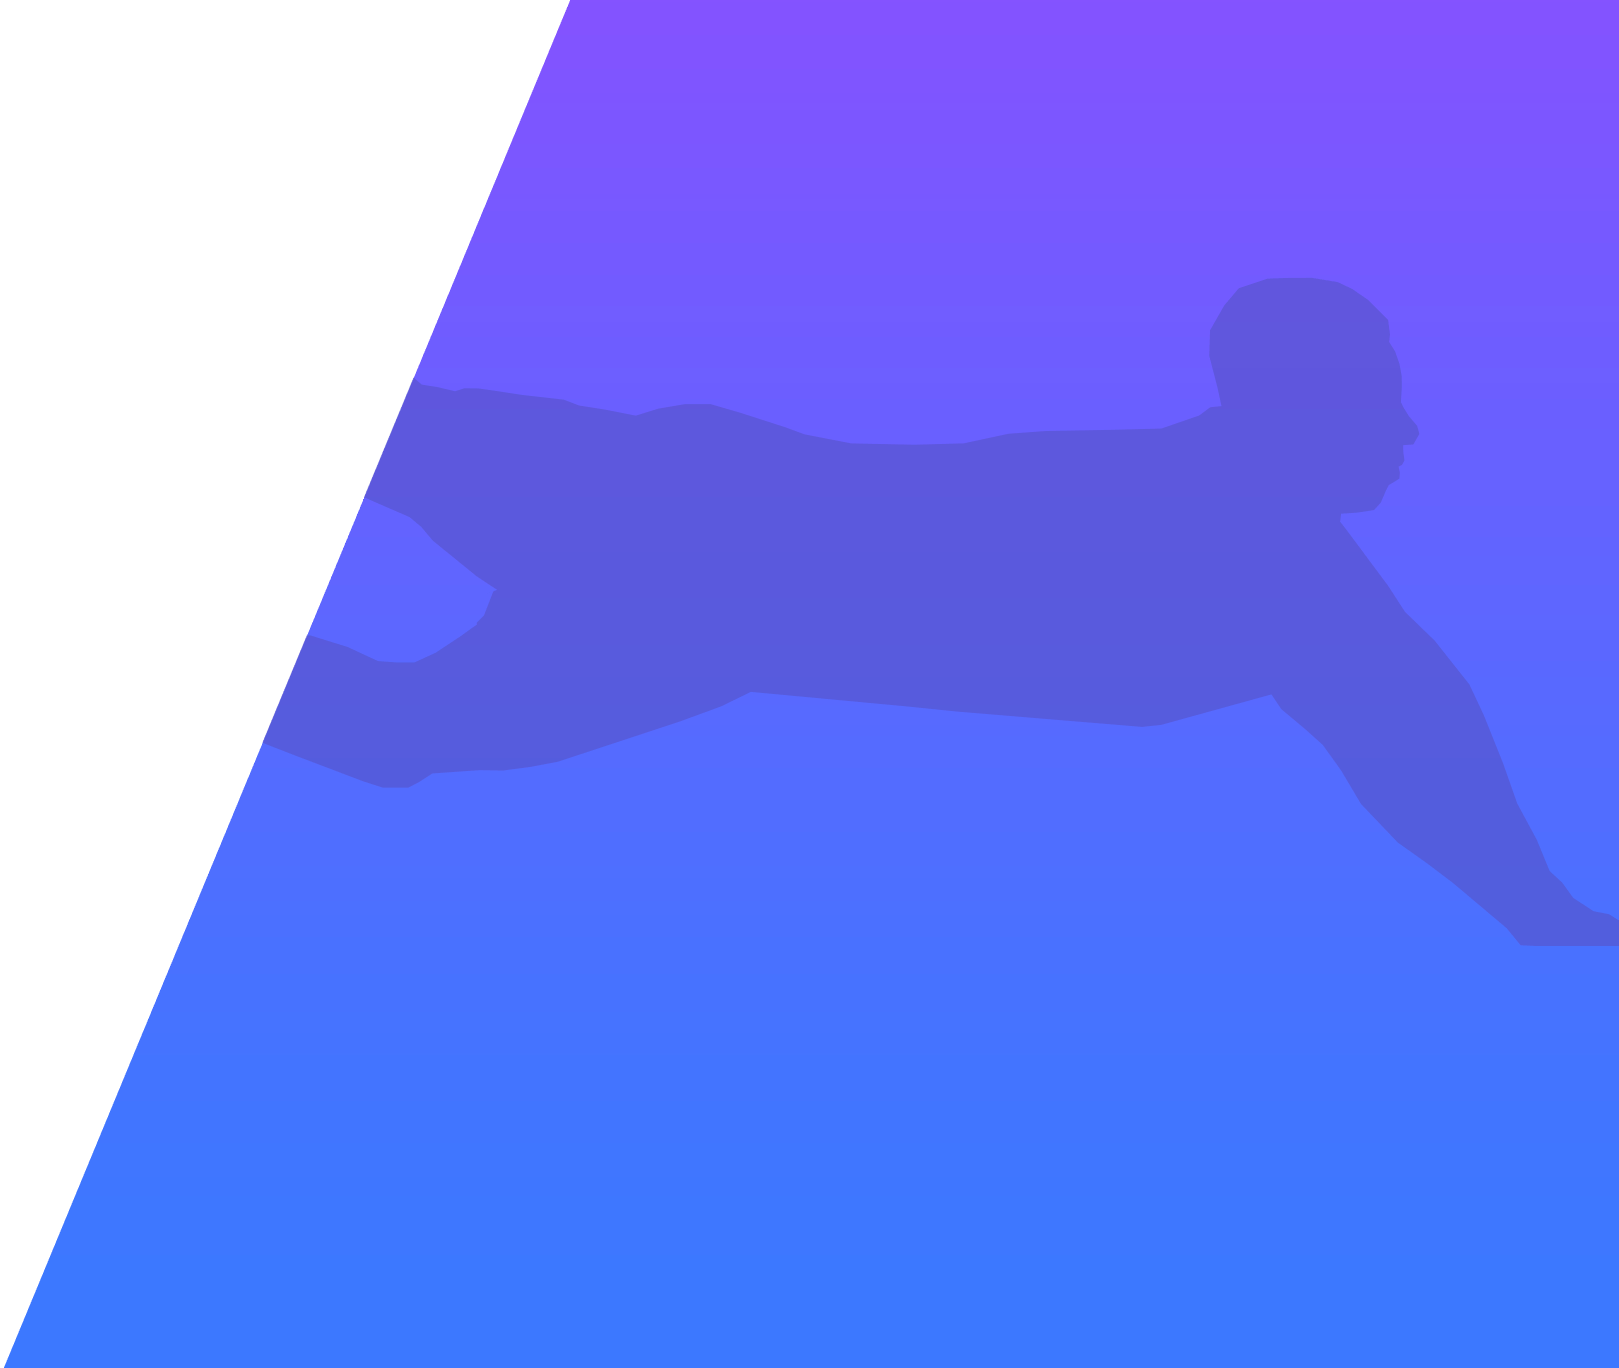
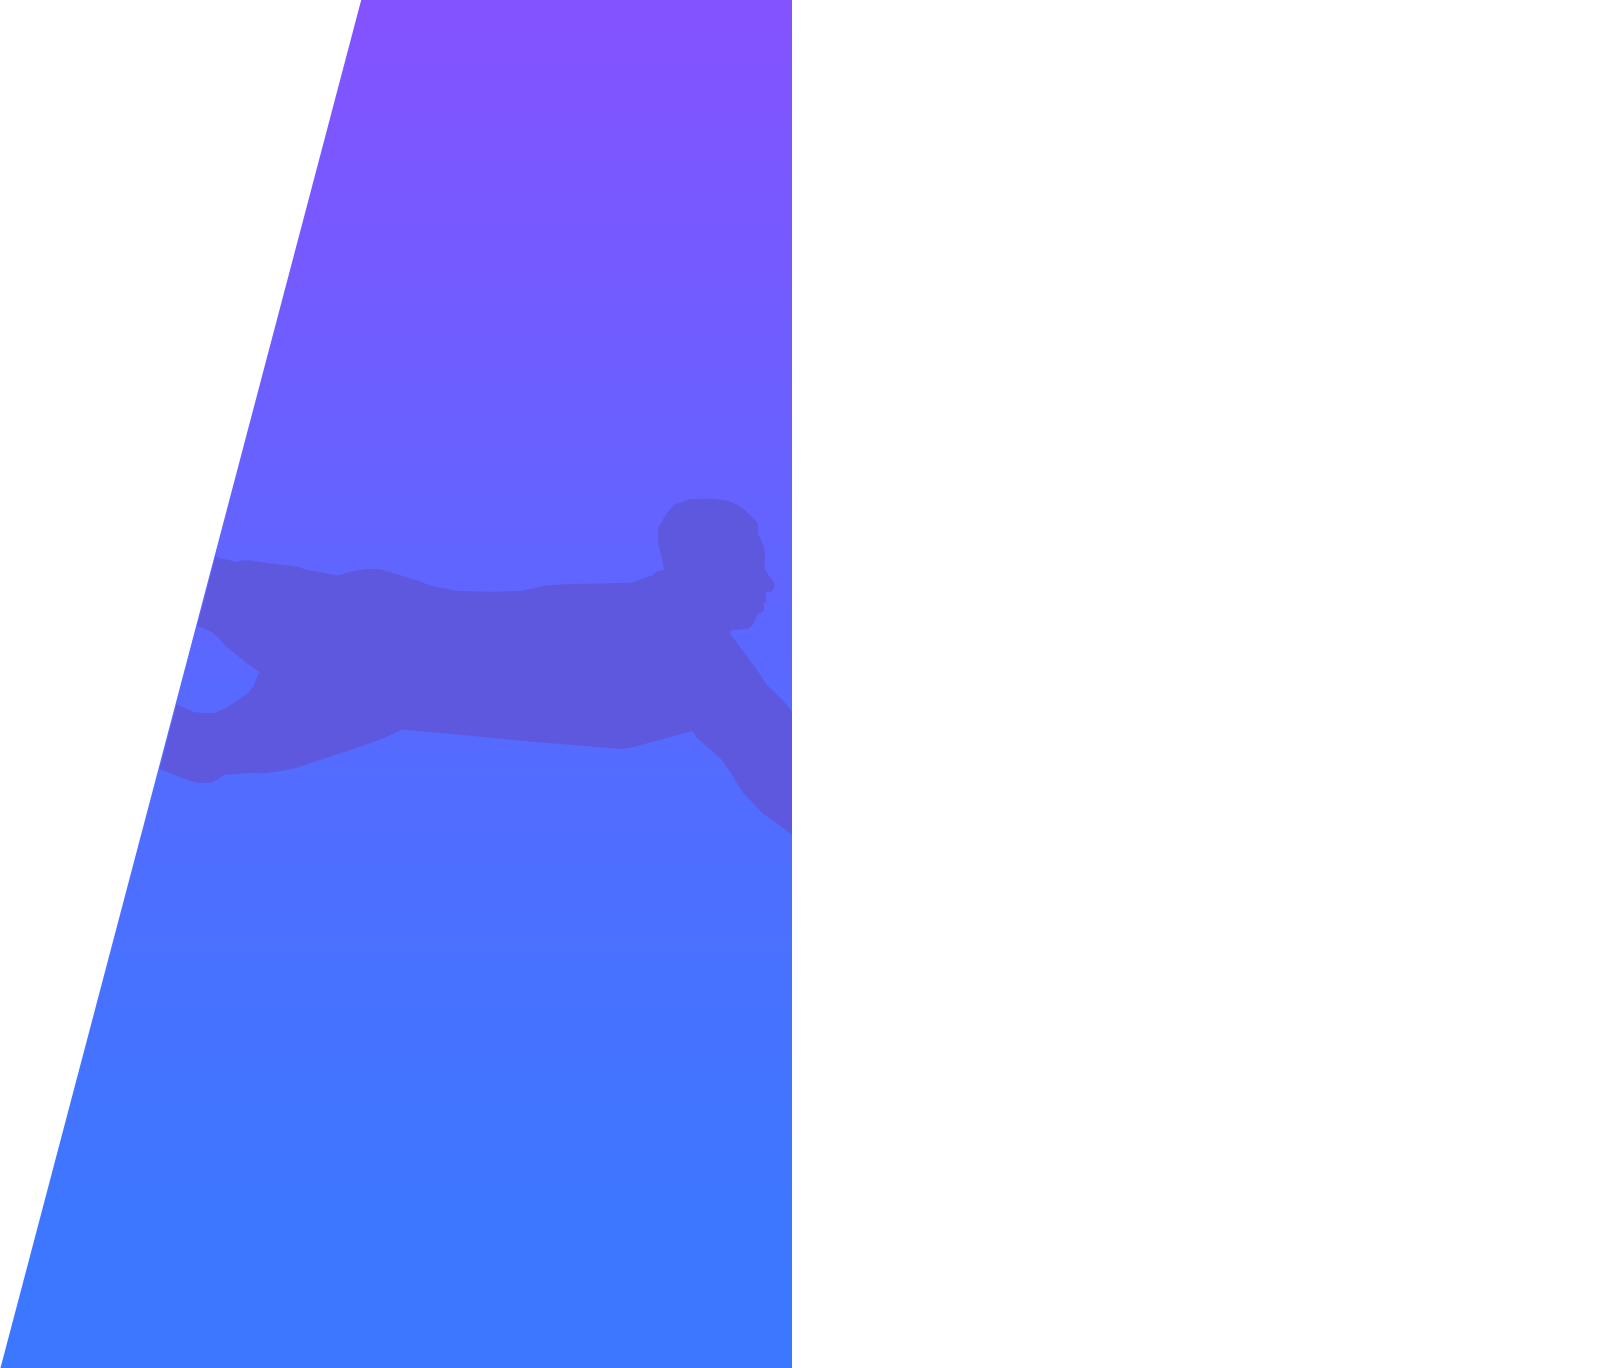
correction bugs affichages

diff --git a/src/components/Board/Board.js b/src/components/Board/Board.js
@@ -87,9 +87,8 @@ export default class Board extends Component {
                 </div>
                 {/* PARTIE 1 */}
                 <div className="Board__slide">
-                    <Skew position="left" name="CHAP01-TITRE.png" bg="CHAP01-OUVERTURE.png"></Skew>
+                    <Skew position="right" name="CHAP01-TITRE.png" bg="CHAP01-OUVERTURE.png"></Skew>
                 </div>
-                <div className="Board__slide"></div>
                 <div className="Board__slide Board__slide--bottom">
                     <Edito content={this.props.datas.text[1].zone_2} positionBottom="52%"></Edito>
                     <Element name="CHAP01-CITATION1.png" index="p1"></Element>
